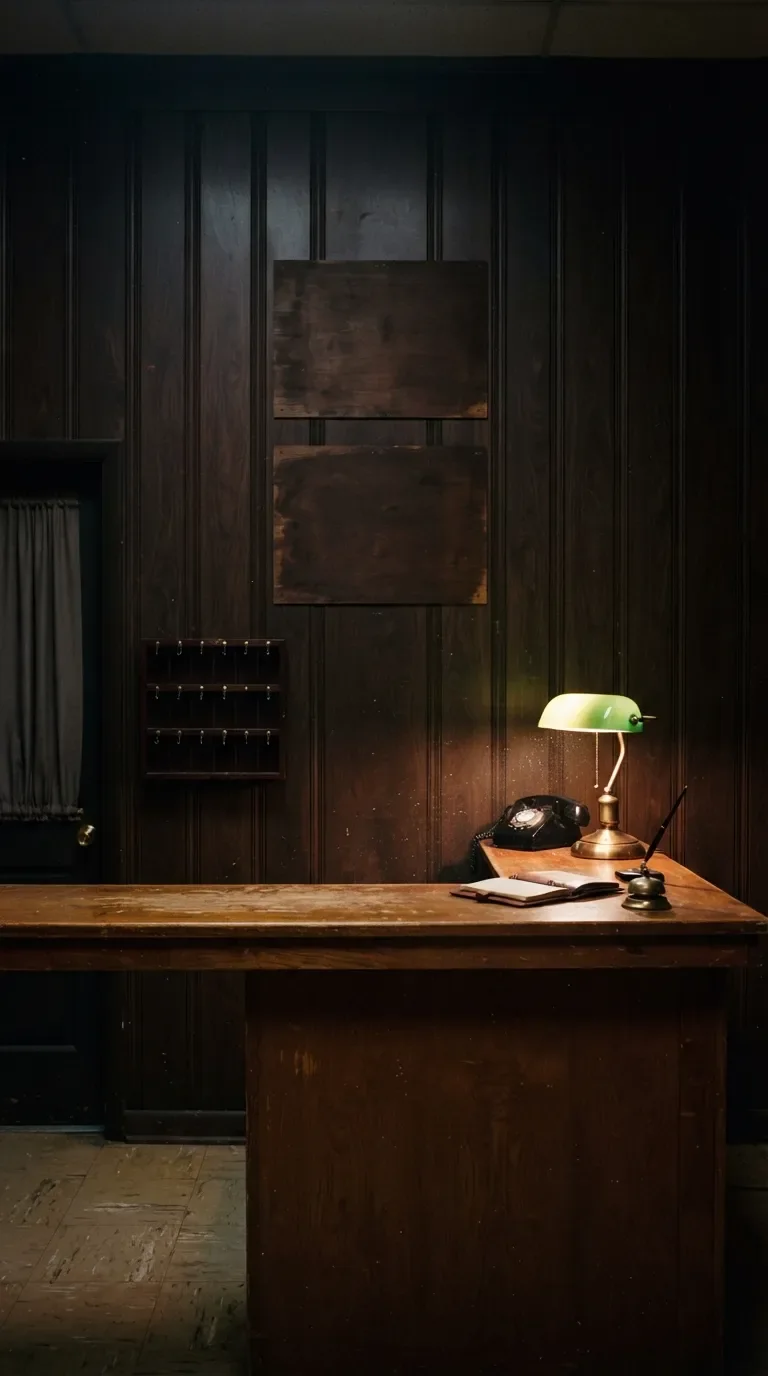
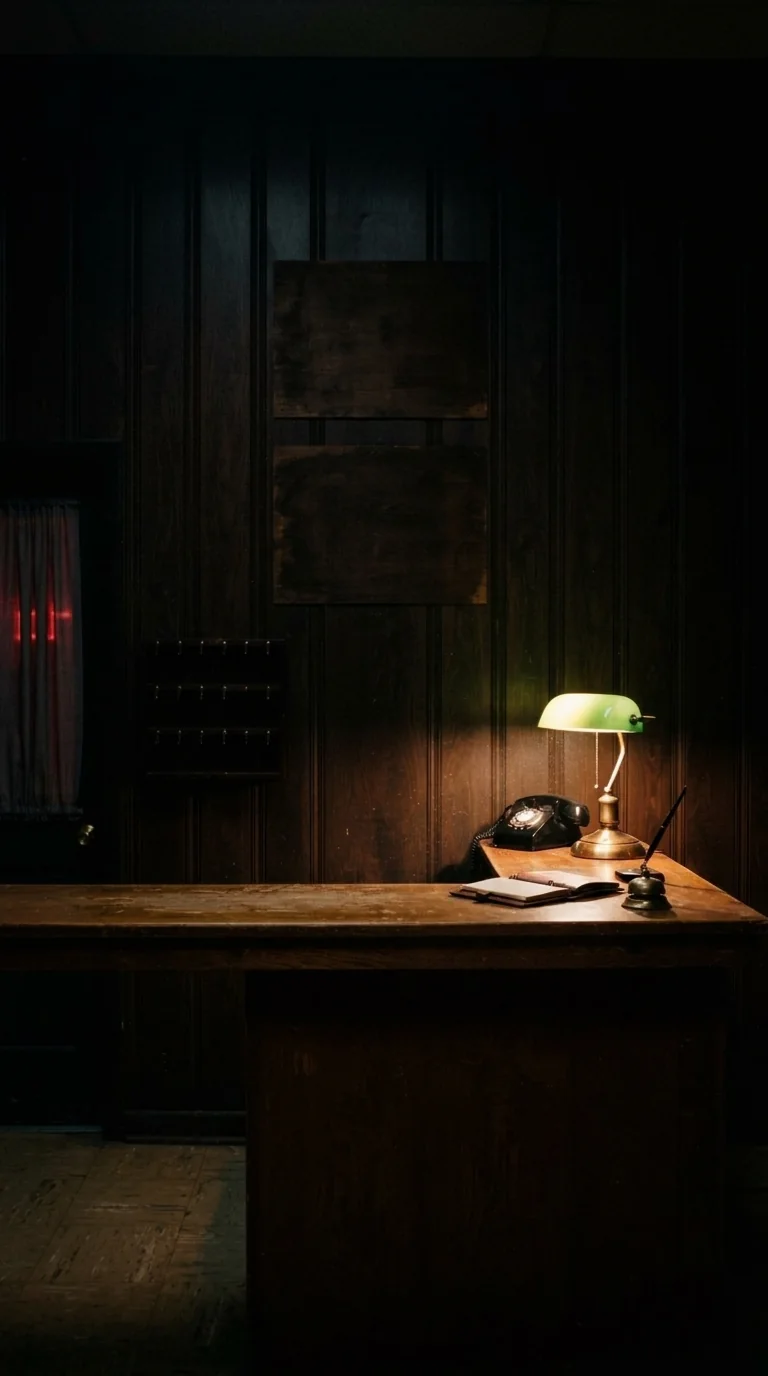
KorhoDesk : nuit portrait plus profonde, néon rouge à travers le rideau, recalée à moins d'un pixel
Claude-Session: https://claude.ai/code/session_014nJuEK9i2eNT4jSAYNFzPc

diff --git a/kave/korhodesk/index.html b/kave/korhodesk/index.html
@@ -229,7 +229,7 @@ function myCodes(){try{return JSON.parse(localStorage.getItem('kd.codes')||'[]')
 // positions en % de la scène : [gauche, haut, largeur]
 const LAYOUT={
   land:{door:[36,48],lamp:[81,47],bg:'img/room-land.webp',nbg:'img/room-land-nuit.webp',ar:'1376/768',neon:[3,9,24],board:[2,22,26],rack:[47,14,23],bell:[49,60.4,6],nav:[47,49]},
-  port:{door:[15,45],lamp:[78,46],bg:'img/room-port.webp',nbg:'img/room-port-nuit.webp',ar:'768/1376',neon:[21,7,58],board:[22,17.5,56],rack:[25,41.6,42],bell:[76,60.2,12],nav:[25,61.5]}
+  port:{door:[15,45],lamp:[78,46],bg:'img/room-port.webp',nbg:'img/room-port-nuit.webp',ncode:.4,ar:'768/1376',neon:[21,7,58],board:[22,17.5,56],rack:[25,41.6,42],bell:[76,60.2,12],nav:[25,61.5]}
 };
 // crochets du tableau (px de rack.webp 852×692)
 const HX=[62,136,208,282,355,428,500,572,646,718,791],HY=[58,128,200,271,345,414,483,549,612];
@@ -246,7 +246,7 @@ const $=s=>document.querySelector(s);
 // heure du visiteur (fuseau de son appareil) : jour 7 h – 18 h, crépuscule 18 h – 21 h, nuit 21 h – 5 h, aube 5 h – 7 h
 function nightness(){const d=new Date(),h=d.getHours()+d.getMinutes()/60;return h>=21||h<5?1:h>=18?(h-18)/3:h<7?(7-h)/2:0}
 function dusk(L){const st=$('#stage'),n=nightness();st.style.setProperty('--n',n.toFixed(3));st.classList.toggle('night',n>=.5);
-  const nb=$('#nightbg');nb.style.backgroundImage=L&&L.nbg?`url(${L.nbg})`:'none';st.style.setProperty('--code',L&&L.nbg?.85:1);requestAnimationFrame(()=>requestAnimationFrame(()=>st.classList.add('tr')))}
+  const nb=$('#nightbg');nb.style.backgroundImage=L&&L.nbg?`url(${L.nbg})`:'none';st.style.setProperty('--code',L&&L.nbg?(L.ncode??.85):1);requestAnimationFrame(()=>requestAnimationFrame(()=>st.classList.add('tr')))}
 setInterval(()=>dusk(innerWidth>=innerHeight-((document.getElementById('ikbar')||{}).offsetHeight||52)?LAYOUT.land:LAYOUT.port),6e4);
 function layout(){
   const bar=document.getElementById('ikbar'),bh=bar?bar.offsetHeight||52:0,ah=innerHeight-bh;
